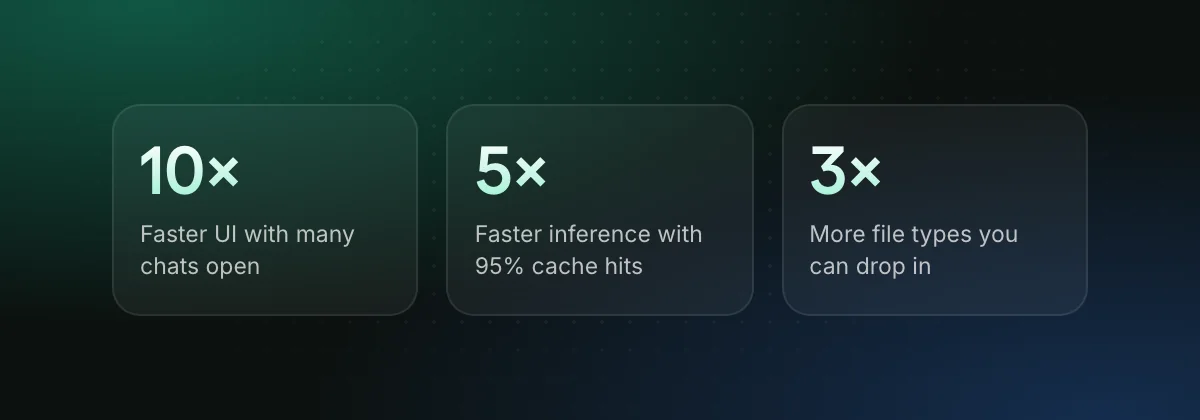
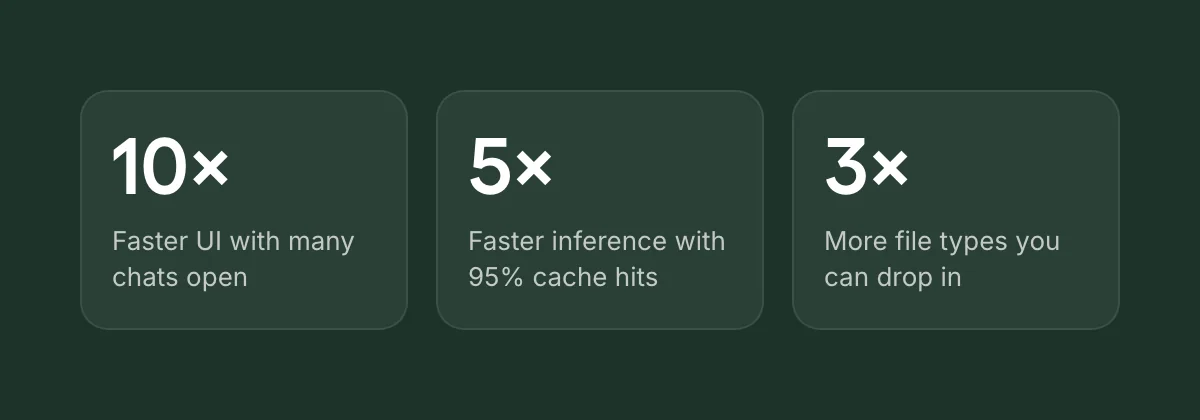
Show a lone release feature beside its caption, flatten release artwork

diff --git a/studio/frontend/src/components/update/whats-new-dialog.tsx b/studio/frontend/src/components/update/whats-new-dialog.tsx
@@ -189,7 +189,11 @@ function ReleaseHistory({
                 {entry.features.map((feature) => (
                   <figure
                     key={feature.title}
-                    className={cn("overflow-hidden rounded-lg", WASH)}
+                    className={cn(
+                      "overflow-hidden rounded-lg",
+                      WASH,
+                      entry.features.length === 1 && "sm:flex sm:items-center",
+                    )}
                   >
                     <img
                       src={feature.image}
@@ -199,7 +203,9 @@ function ReleaseHistory({
                       alt={feature.alt}
                       className={cn(
                         "block w-full object-cover",
-                        entry.features.length > 1 ? "h-[7.5rem]" : "h-52",
+                        entry.features.length > 1
+                          ? "h-[7.5rem]"
+                          : "aspect-[20/7] sm:w-[58%] sm:shrink-0",
                       )}
                     />
                     <figcaption className="p-3">
